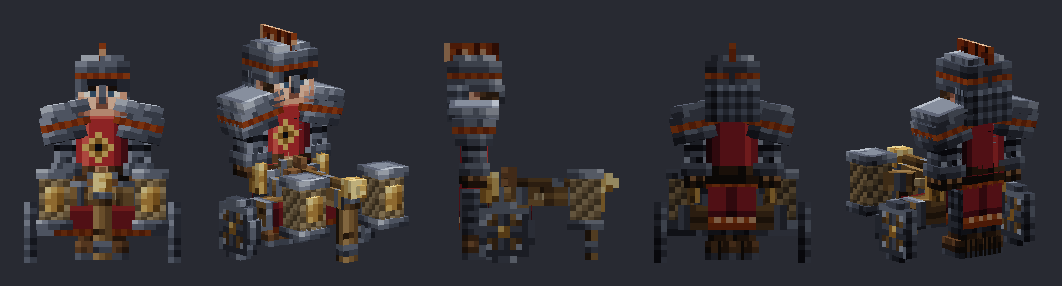
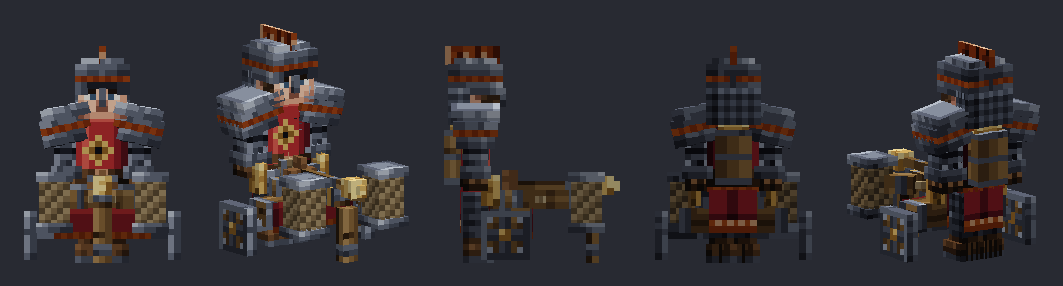
Add Ballista quiver, Brassjaw backplate and flues, brighter wheels

diff --git a/art/hand/ic_ballista/build_ic_ballista.py b/art/hand/ic_ballista/build_ic_ballista.py
@@ -21,7 +21,7 @@ def wheel_face(flip):
     def paint(face, w, h):
         g = blank(w, h)
         if face in ("front", "back", "top", "bottom"):
-            return iron_plain(3, "tyre", 2)(face, w, h)
+            return iron_plain(4, "tyre", 2)(face, w, h)
         for y in range(h):
             for x in range(w):
                 edge = x in (0, w - 1) or y in (0, h - 1)
@@ -59,16 +59,12 @@ def bones():
     B.append(Bone("carriage", "root", tag="siege", boxes=[
         Box((-9, 15, -15), (18, 4, 5), hooped(grain(OAK, "x", 3, "bed"), [(0, 2), (16, 2)], along="x", R=IRON)),
         Box((-12, 18, -13.5), (24, 2, 2), hooped(iron_plain(3, "axle", 1), [], along="x")),
-        Box((-1.5, 12, -27), (3, 3, 23), hooped(grain(OAK, "z", 3, "stock"), [(0, 2), (9, 2), (20, 3)], along="z", R=IRON, trim=BRASS)),
+        Box((-1.5, 12, -24), (3, 3, 20), hooped(grain(OAK, "z", 3, "stock"), [(0, 2), (8, 2), (17, 3)], along="z", R=IRON, trim=BRASS)),
         Box((-5, 12, -12), (10, 3, 2), hooped(grain(OAK, "x", 4, "rear"), [(0, 1), (9, 1)], along="x", R=IRON)),
         Box((-1.5, 15, -26.5), (3, 9, 2), hooped(grain(OAK, "y", 3, "prop"), [(6, 2)], along="y", R=IRON))]))
     for side, x, flip in (("r", -13, False), ("l", 11, True)):
         B.append(Bone(f"wheel_{side}", "root", tag="siege", boxes=[
-            Box((x, 15.5, -15), (2, 8, 8), wheel_face(flip)),
-            Box((x, 14.5, -13), (2, 1, 4), iron_plain(3, "tyre_t", 1)),
-            Box((x, 23.5, -13), (2, 1, 4), iron_plain(2, "tyre_b", 1)),
-            Box((x, 17.5, -16), (2, 4, 1), iron_plain(3, "tyre_f", 1)),
-            Box((x, 17.5, -8), (2, 4, 1), iron_plain(3, "tyre_r", 1))]))
+            Box((x, 15.5, -15), (2, 8, 8), wheel_face(flip))]))
     # the windlass: a drum on the stock and a crank bar a crewman's hand can reach
     B.append(Bone("windlass", "root", tag="siege", boxes=[
         Box((-2.5, 9.5, -10), (5, 5, 3), hooped(rope("x", 3, "drum"), [(0, 1), (4, 1)], along="x", R=IRON)),
@@ -79,19 +75,22 @@ def bones():
         B.append(Bone(f"skein_{side}", "root", tag="siege", boxes=[
             Box((8 * c - 2.5, 10, -27), (5, 8, 5), hooped(rope("y", 3, "skein" + side), [], along="y")),
             Box((8 * c - 3, 9, -27.5), (6, 1.5, 6), iron_plain(4, "skcapt", 2)),
-            Box((8 * c - 3, 17.5, -27.5), (6, 1.5, 6), iron_plain(3, "skcapb", 2)),
-            Box((8 * c - 1.5, 12, -27.7), (3, 4, 1), brass(4))]))
+            Box((8 * c - 3, 17.5, -27.5), (6, 1.5, 6), iron_plain(3, "skcapb", 2))
+            ]))
         B.append(Bone(f"arm_{side}", "root", (8 * c, 13.5, -24.5), rot=(0, 38 * -c, 0), tag="siege", boxes=[
             Box((-1.25, -1.5, -0.5), (2.5, 3, 8), hooped(grain(OAK, "z", 4, "arm" + side), [(5, 2)], along="z", R=IRON, trim=BRASS))]))
         B.append(Bone(f"cord_{side}", "root", (8 * c - c * 4.7, 13.5, -24.5 + 6.1), rot=(0, -46 * c, 0), tag="siege", boxes=[
             Box((-0.5, -0.5, 0), (1, 1, 6.6), rope("z", 4, "cord"))]))
     B.append(Bone("bolt", "root", tag="siege", boxes=[
-        Box((-0.5, 10.5, -26), (1, 1.5, 15), bolt_shaft()),
+        Box((-0.5, 10.5, -26), (1, 1.5, 13), bolt_shaft()),
         Box((-1.5, 9.75, -29), (3, 3, 3), brass(5)),
         Box((-0.5, 10.5, -30), (1, 1.5, 1), brass(6)),
         Box((-2.5, 10.7, -13), (5, 1, 2.5), fletch), Box((-0.5, 8.7, -13), (1, 5, 2.5), fletch)]))
+    B.append(Bone("quiver", "body", boxes=[
+        Box((-3, -10, 2.2), (6, 9, 3), hooped(grain(OAK, "y", 4, "qv"), [(0, 1), (4, 1), (8, 1)], along="y", R=IRON)),
+        Box((-2.5, -11.5, 2.7), (5, 2, 1.5), brass(5, seed="qa"))]))
     B.append(Bone("mantlet", "root", team=True, boxes=[Box((-8, 15, -15.6), (16, 5, 0), "mantlet", sheet="cloth")]))
-    for b in B[n0:]:   # nudge the engine back toward the crewman
+    for b in [b for b in B[n0:] if b.parent == "root"]:   # nudge the engine back toward the crewman
         if any(b.pivot): b.pivot[2] += 6
         else:
             for bx in b.boxes: bx.origin[2] += 6

diff --git a/art/hand/ic_colossus/build_ic_colossus.py b/art/hand/ic_colossus/build_ic_colossus.py
@@ -152,6 +152,11 @@ def bones():
     B.append(Bone("maul", "right_arm", (0, 25, 0), rot=(-18, 0, 0), tag="weapon", boxes=[
         Box((-1, -24, -1), (2, 30, 2), hooped(grain(OAK, "y", 3, "haft", knots=1), [(6, 2), (22, 2)], along="y", R=IRON, trim=BRASS)),
         Box((-4, -33, -3.5), (8, 9, 7), maul_head)]))
+    B.append(Bone("backplate", "body", boxes=[
+        Box((-6.5, -16, 5), (13, 10, 1.5), banded(hull(5, 3, 1, "bp"), [3, 6], R=BRASS)),
+        Box((-2, -17, 5.5), (4, 3, 1), iron_plain(5, "vent", 1))]))
+    for side, x in (("r", -7), ("l", 5)):
+        B.append(Bone(f"flue_{side}", "body", boxes=[Box((x, -17, 3), (2, 12, 2.5), banded(plate(IRON, 4, spec=False), [1, 4, 7, 10]))]))
     B.append(Bone("belt_banner", "body", team=True, boxes=[Box((-4, -4, -3.4), (8, 14, 0), "banner", sheet="cloth")]))
     return B
 

diff --git a/docs/reports/ironclad-art-b-2026-11.md b/docs/reports/ironclad-art-b-2026-11.md
@@ -46,3 +46,6 @@ Coordinator pointed out 891904e was already 1-texel. Rendered both side by side:
 
 ## Second pass (rebased on main)
 Mortar tube retilted to (-28, 0, -26). Fast verify green again. In-game turn check NOT run: about nine Minecraft client processes were running machine-wide, over the cap of 5, and the game tier is only a combat smoke that does not spawn these troops. Self-score unchanged at 8.5 until seen in game.
+
+## Third pass (Kort: push every troop to 9)
+Added a bolt quiver to the Ballista crewman (back gear, no flag), brighter wheels, a shorter stock to fit the sheet; Brassjaw gained a brass-banded backplate and two flues so its back is no longer a flat dark slab. Self-grade from the turn sheets: Ballista 8.5, Mortar 8.7, Brassjaw 8.8. Not claimed at 9: none seen in game, and the Ballista wheels and crewman-to-engine relationship are still its weakest read.
